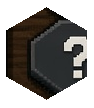
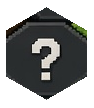
fix(match): seat UNKNOWN tiles on a clean 9×7 hex grid
UNKNOWN crop recentered · face fit to pointy cell (no neighbor bleed) · plate art under board covered with desk wood. Soft HUD chrome unchanged. HEADLESS_LOOP_OK.

diff --git a/tools/extract_canon_sprites.py b/tools/extract_canon_sprites.py
@@ -176,7 +176,8 @@ def extract_hex(hex_map: Image.Image) -> None:
         "hex_open": box_at(469, 218, 47, 54),
         "hex_brush": box_at(656, 218, 47, 54),
         "hex_hard": box_at(796, 299, 47, 54),
-        "hex_unknown": box_at(328, 299, 47, 54),
+        ## 328 landed the ? on the right edge, so tiled UNKNOWN marks stacked into the next cell.
+        "hex_unknown": box_at(360, 297, 47, 54),
     }
     for name, box in board.items():
         raw = crop(hex_map, box, f"{name}_board_raw")
